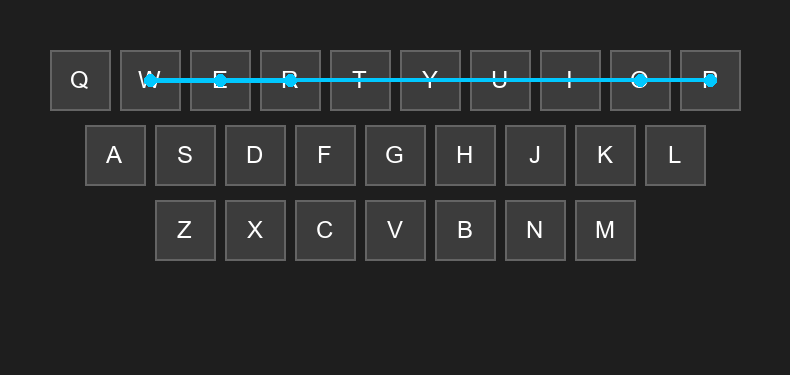
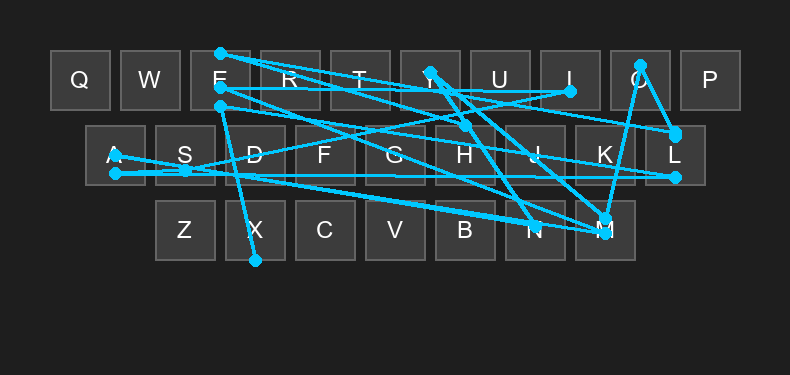
spacing

Changed region(s): [[0.1215, 0.1173, 0.9114, 0.704], [0.3342, 0.3813, 0.3949, 0.4107]]

diff --git a/swipe_generator.py b/swipe_generator.py
@@ -90,16 +90,29 @@ def draw_swipe_trace(draw, word, image_width):
     if len(points) < 2:
         return
     
-    # Draw smooth curve through the points
-    for i in range(len(points) - 1):
+    # Calculate descending track: start at top of first key, end at bottom of last key
+    num_points = len(points)
+    total_descent = KEY_HEIGHT  # Full height of a key
+    
+    # Adjusted points with descending y positions
+    adjusted_points = []
+    for i, (x, y) in enumerate(points):
+        # Calculate descent progress (0.0 to 1.0)
+        progress = i / (num_points - 1) if num_points > 1 else 0
+        # Calculate y offset: start at -KEY_HEIGHT/2 (top), end at +KEY_HEIGHT/2 (bottom)
+        y_offset = -KEY_HEIGHT / 2 + (progress * total_descent)
+        adjusted_points.append((x, y + y_offset))
+    
+    # Draw smooth curve through the adjusted points
+    for i in range(len(adjusted_points) - 1):
         draw.line(
-            [points[i], points[i + 1]],
+            [adjusted_points[i], adjusted_points[i + 1]],
             fill=TRACE_COLOR,
             width=TRACE_WIDTH
         )
     
     # Draw circles at each point
-    for point in points:
+    for point in adjusted_points:
         draw.ellipse(
             [point[0] - 6, point[1] - 6, point[0] + 6, point[1] + 6],
             fill=TRACE_COLOR,
